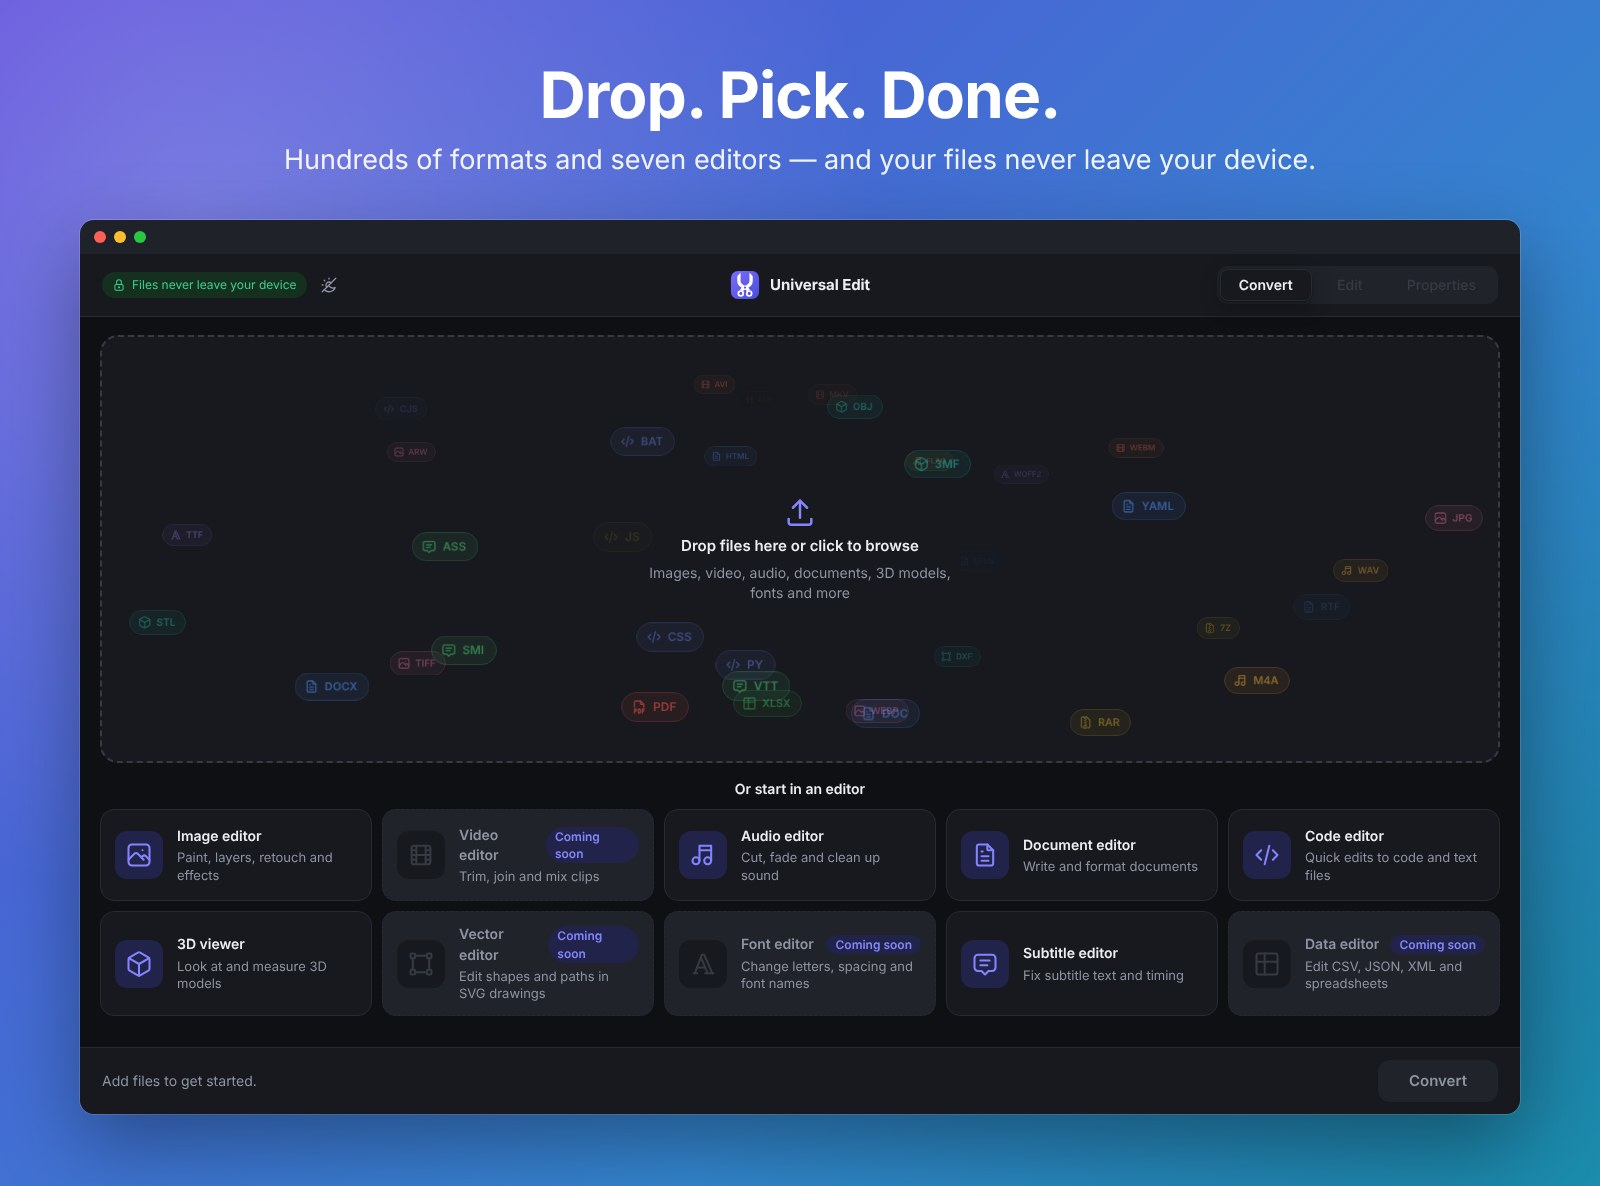
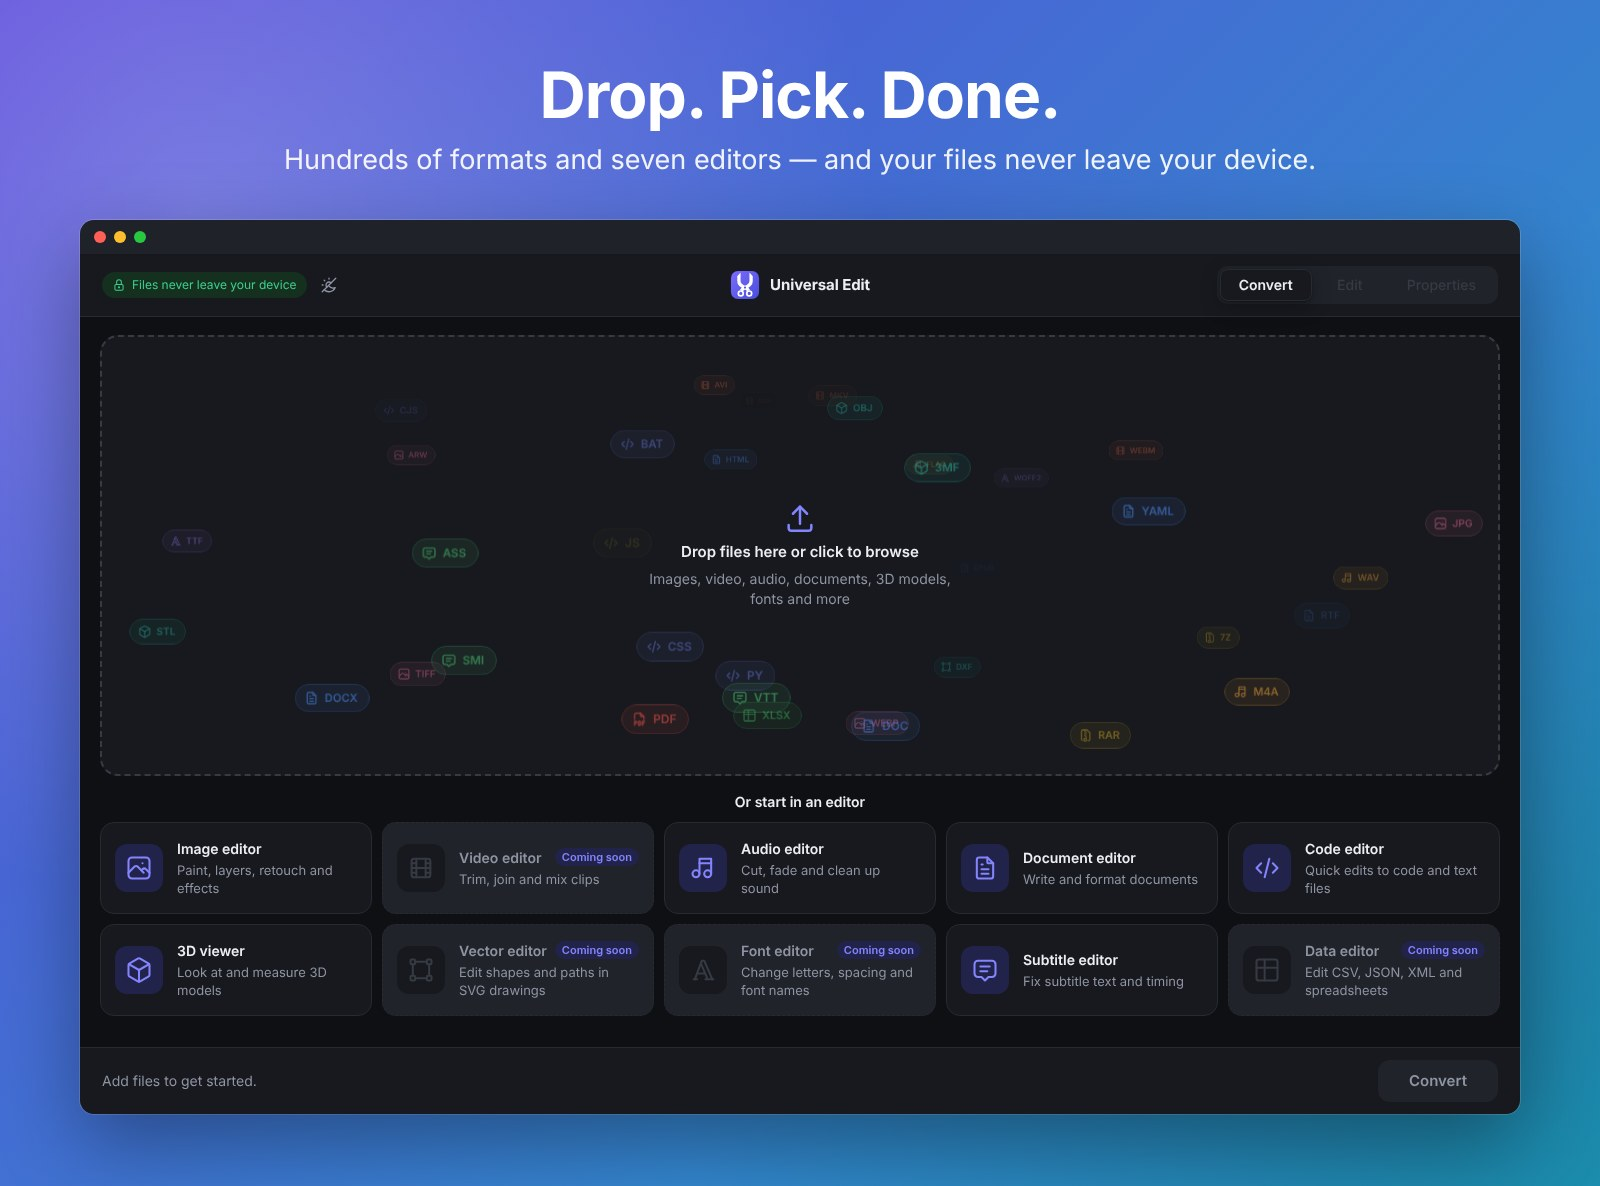
Keep the Coming soon labels on the editor tiles whole
A smaller label that never shrinks or wraps; on the desktop a tile too
tight for the name beside it says "Soon" (it was cut to "Coming soo").
Tested at several window widths in both apps, with the real stylesheet.

diff --git a/web/e2e/hub.spec.ts b/web/e2e/hub.spec.ts
@@ -134,3 +134,20 @@ test("pressing Convert while a tile's editor is still loading doesn't let a seco
   await page.waitForTimeout(500); // the audio editor would load by now
   await expect(page.locator(".audio-canvas")).toHaveCount(0); // never even mounted
 });
+
+test("Coming soon labels stay whole on one line at every width", async ({ page }) => {
+  for (const width of [1100, 1280, 1440, 1920]) {
+    await page.setViewportSize({ width, height: 900 });
+    await page.goto("./");
+    const pills = page.locator(".editor-tile .badge-pill");
+    expect(await pills.count()).toBeGreaterThan(0);
+    for (const pill of await pills.all()) {
+      const box = await pill.evaluate((el) => {
+        const r = el.getBoundingClientRect(), t = el.closest(".editor-tile")!.getBoundingClientRect();
+        return { oneLine: r.height <= 22, inside: r.right <= t.right + 0.5, whole: el.scrollWidth <= el.clientWidth };
+      });
+      expect(box, `${width}px`).toEqual({ oneLine: true, inside: true, whole: true });
+    }
+  }
+});
+

diff --git a/web/src/styles.css b/web/src/styles.css
@@ -222,6 +222,10 @@ h1 { font-size: 15px; font-weight: 650; margin: 0; letter-spacing: -0.005em; whi
 .editor-tile:disabled { cursor: default; background: var(--surface-alt); border-style: dashed; color: var(--muted); }
 .editor-tile:disabled .tile-icon { background: var(--surface); color: var(--border-strong); }
 .editor-tile .tile-title { font-weight: 600; font-size: 14px; }
+/* the badge keeps its whole text on one line; a tight tile wraps the title instead */
+.editor-tile .tile-head { align-items: flex-start; }
+.editor-tile .tile-title { min-width: 0; }
+.editor-tile .badge-pill { flex: none; white-space: nowrap; font-size: 11px; padding: 0 7px; line-height: 18px; }
 .editor-tile .tile-blurb { font-size: 13px; color: var(--muted); line-height: 1.35; }
 .new-picture .bg-choice { gap: 8px 16px; margin: 0; flex-wrap: wrap; justify-content: flex-start; }
 .new-picture .bg-choice .check { flex: 0 0 auto; margin: 0; } /* not the dialog's indented checkbox row */

diff --git a/src/umc/gui/widgets/editor_hub.py b/src/umc/gui/widgets/editor_hub.py
@@ -126,6 +126,9 @@ class _TilesScroll(QScrollArea):
             self.updateGeometry()  # a new width can mean another number of rows (its height)
 
 
+SOON_SHORT = "Soon"
+
+
 class EditorTile(QPushButton):
     """A big icon on the left; title, description and a badge ("Coming soon" when not available,
     "Install" for an add-on not downloaded yet) on the right."""
@@ -159,7 +162,13 @@ class EditorTile(QPushButton):
         self.title = QLabel(info.title, objectName="EditorTileTitle")
         head.addWidget(self.title)
         head.addStretch(1)
-        self.badge = QLabel(COMING_SOON if not info.available else "Install", objectName="Badge")
+        label = COMING_SOON if not info.available else "Install"
+        self.badge = QLabel(label, objectName="TileBadge")
+        # Never clipped: the badge keeps its size, and a tile too tight for the title and
+        # "Coming soon" side by side shows "Soon" (it showed "Coming soo"; a wrapped title
+        # pushed the description out of the fixed-height tile).
+        self.badge.setSizePolicy(QSizePolicy.Policy.Fixed, QSizePolicy.Policy.Fixed)
+        self._head = head
         head.addWidget(self.badge)
         text.addLayout(head)
         self.blurb = QLabel(info.blurb, objectName="Muted")
@@ -170,6 +179,20 @@ class EditorTile(QPushButton):
             w.setAttribute(Qt.WidgetAttribute.WA_TransparentForMouseEvents)  # clicks: the button
         self.refresh_install_state()
         self.retint()
+
+    def resizeEvent(self, e) -> None:  # noqa: N802
+        super().resizeEvent(e)
+        self._fit_badge()
+
+    def _fit_badge(self) -> None:
+        if self.info.available:
+            return
+        m = self.layout().contentsMargins()
+        room = self.width() - m.left() - m.right() - ICON_BOX - self.layout().spacing()
+        self.badge.setText(COMING_SOON)
+        need = self.title.sizeHint().width() + self._head.spacing() + self.badge.sizeHint().width()
+        if need > room:
+            self.badge.setText(SOON_SHORT)
 
     @property
     def needs_install(self) -> bool:

diff --git a/tests/test_editor_hub.py b/tests/test_editor_hub.py
@@ -281,3 +281,33 @@ def test_document_tile_stays_put_when_the_page_refuses(window, monkeypatch):
     monkeypatch.setattr(DocEditorPage, "open_empty", lambda self: False)
     assert window.open_editor("document") is False
     assert window.stack.currentIndex() == 0 and not window.edit_mode.isChecked()
+
+
+@pytest.mark.parametrize("width", [1100, 1280, 1440, 1920])
+def test_coming_soon_badges_are_never_cut_off(qtbot, window, width):
+    """At five tiles a row the title and badge were too wide together: the badge was clipped
+    ("Coming soo"). Now the badge keeps its size and the title wraps."""
+    from PySide6.QtWidgets import QApplication
+
+    from umc.gui import theme
+
+    app = QApplication.instance()
+    before = app.styleSheet()
+    app.setStyleSheet(theme.stylesheet())  # its padding is what made the badge too wide
+    try:
+        window.resize(width, 900)
+        qtbot.waitUntil(lambda: window.hub.tiles["vector"].width() > 0, timeout=3000)
+        for _ in range(5):
+            QApplication.processEvents()
+        for tile in window.hub.tiles.values():
+            if tile.badge.isVisible():
+                assert tile.badge.width() >= tile.badge.sizeHint().width(), (width, tile.info.id)
+                assert tile.title.width() >= tile.title.sizeHint().width(), (width, tile.info.id)
+                if not tile.info.available:
+                    assert tile.badge.text() in ("Coming soon", "Soon")
+        window.resize(1920, 900)
+        for _ in range(5):
+            QApplication.processEvents()
+        assert window.hub.tiles["vector"].badge.text() == "Coming soon"  # wide: the whole text
+    finally:
+        app.setStyleSheet(before)
